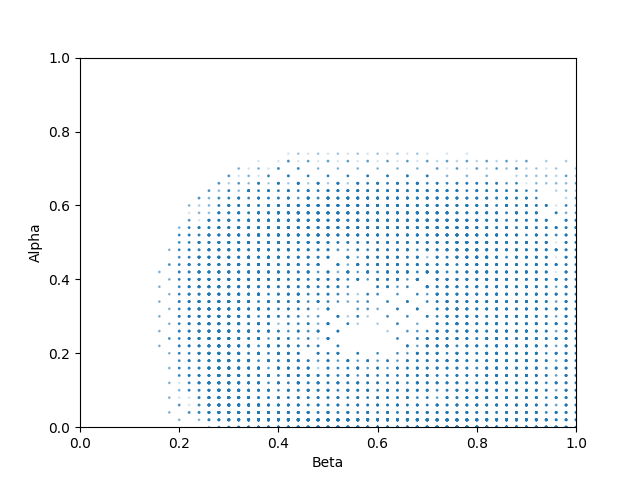
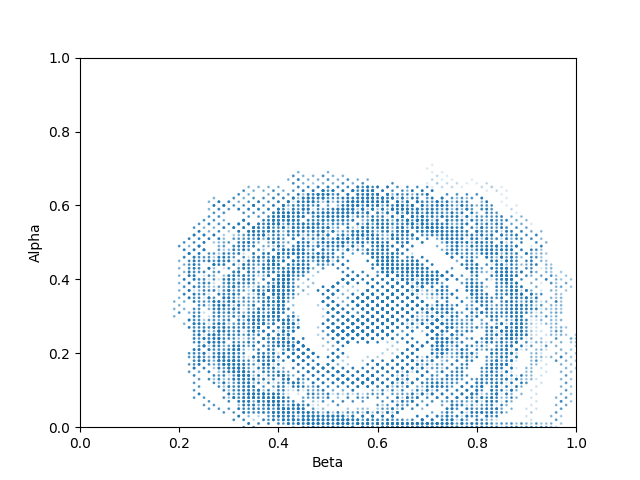
style: 🎨 Small code adjustments

Changed region(s): [[0.25, 0.3438, 0.9062, 0.9062]]

diff --git a/penalty_simulation.py b/penalty_simulation.py
@@ -2,6 +2,7 @@
 # Importations
 from src.print import *
 from src.joueur_penalty import *
+import matplotlib.pyplot as plt
 import random
 
 # On initialise l1 et l2 (les scores pour chaque cas)
@@ -49,8 +50,7 @@ def main():
     import time
     for i in range(nb_etapes):
         if i%666 == 0:
-            progress(f"{(i/nb_etapes)*100:.2f}%")
-            info(f"Alpha = {gardien.proba:.3f},\tBeta = {tireur.proba:.3f}")
+            progress(f"{(i/nb_etapes)*100:.2f}% (Alpha={gardien.proba:.3f},\tBeta={tireur.proba:.3f})")
         #time.sleep(1)
 
         total_gardien, total_tireur = simulation(10000, gardien, tireur)
@@ -62,8 +62,7 @@ def main():
         #info(f"Alpha = {gardien.proba:.3f},\tBeta = {tireur.proba:.3f}")
         beta_historique.append(tireur.proba)
 
-    #construction graphique
-    import matplotlib.pyplot as plt
+    # Construction graphique
     # Calcul de l'opacité (plus un point est vieux, plus il est transparent)
     opacite = [0.1 + 0.9 * i/len(beta_historique) for i in range(len(beta_historique))]
     plt.scatter(beta_historique, alpha_historique, s=1, alpha=opacite)

diff --git a/src/joueur_penalty.py b/src/joueur_penalty.py
@@ -1,5 +1,5 @@
 
-PAS = 0.02
+PAS = 0.01
 
 class Joueur:
     """
